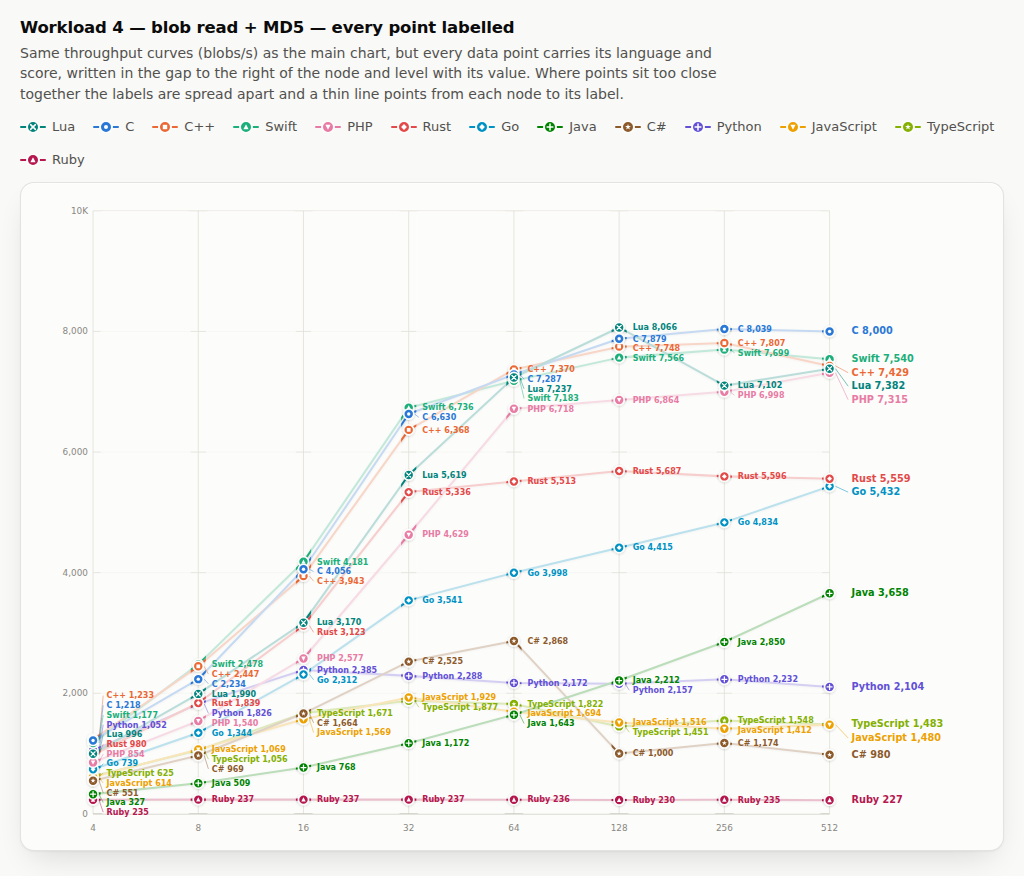
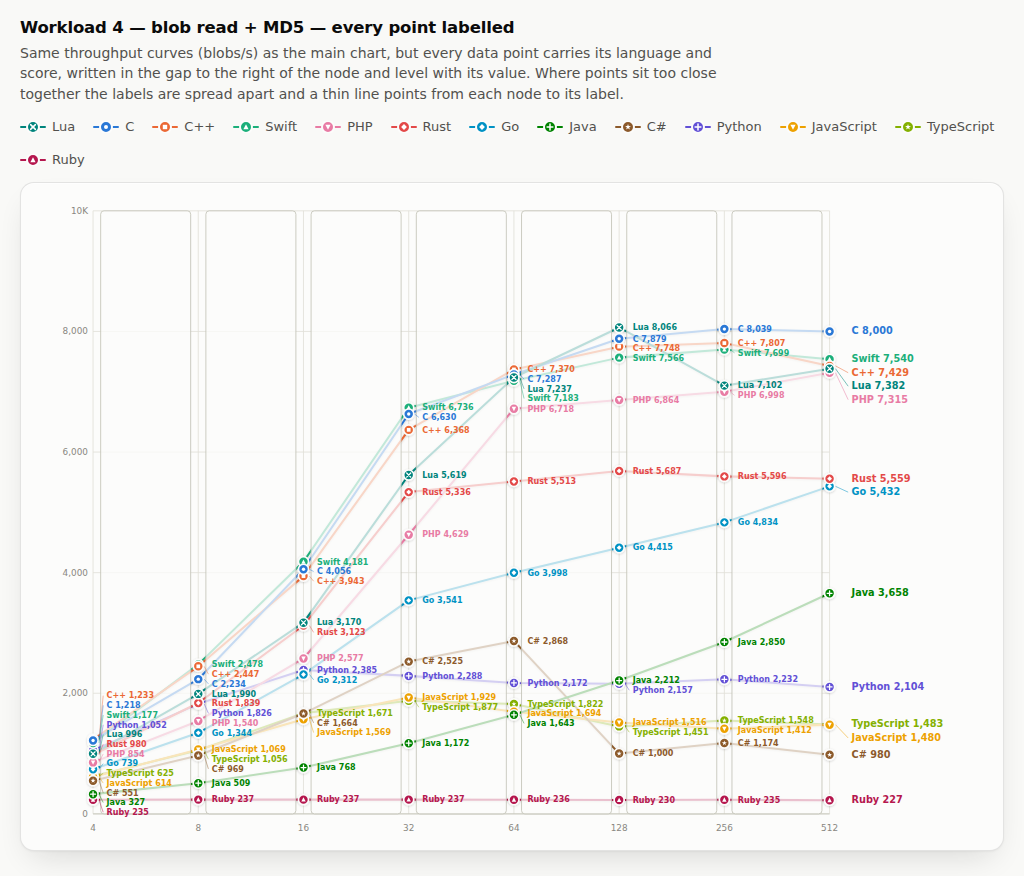
report: outline the translucent panels on annotated charts
Give each full-height gap panel a 1px baseline-coloured border so the label
columns are clearly framed against the clear node windows.

diff --git a/report/annotated.html b/report/annotated.html
@@ -298,7 +298,8 @@ const PAGE_BARS = false;
       const PAD = 9;   // leave a clear window around each node column
       for (let i = 0; i < N-1; i++) {
         svg.appendChild(el("rect", { x: X(i)+PAD, y: BM.t, width: X(i+1)-X(i)-2*PAD, height: BIH, rx: 4, ry: 4,
-                                     fill: "var(--surface-1)", "fill-opacity": "0.74" }));
+                                     fill: "var(--surface-1)", "fill-opacity": "0.74",
+                                     stroke: "var(--baseline)", "stroke-width": 1 }));
       }
     }
     svg.appendChild(marks);

diff --git a/report/report.html b/report/report.html
@@ -378,7 +378,8 @@ const PAGE_BARS = false;
       const PAD = 9;   // leave a clear window around each node column
       for (let i = 0; i < N-1; i++) {
         svg.appendChild(el("rect", { x: X(i)+PAD, y: BM.t, width: X(i+1)-X(i)-2*PAD, height: BIH, rx: 4, ry: 4,
-                                     fill: "var(--surface-1)", "fill-opacity": "0.74" }));
+                                     fill: "var(--surface-1)", "fill-opacity": "0.74",
+                                     stroke: "var(--baseline)", "stroke-width": 1 }));
       }
     }
     svg.appendChild(marks);

diff --git a/report/bars.html b/report/bars.html
@@ -298,7 +298,8 @@ const PAGE_BARS = true;
       const PAD = 9;   // leave a clear window around each node column
       for (let i = 0; i < N-1; i++) {
         svg.appendChild(el("rect", { x: X(i)+PAD, y: BM.t, width: X(i+1)-X(i)-2*PAD, height: BIH, rx: 4, ry: 4,
-                                     fill: "var(--surface-1)", "fill-opacity": "0.74" }));
+                                     fill: "var(--surface-1)", "fill-opacity": "0.74",
+                                     stroke: "var(--baseline)", "stroke-width": 1 }));
       }
     }
     svg.appendChild(marks);

diff --git a/report/generate_html_report.py b/report/generate_html_report.py
@@ -720,7 +720,8 @@ const PAGE_BARS = __PAGE_BARS__;
       const PAD = 9;   // leave a clear window around each node column
       for (let i = 0; i < N-1; i++) {
         svg.appendChild(el("rect", { x: X(i)+PAD, y: BM.t, width: X(i+1)-X(i)-2*PAD, height: BIH, rx: 4, ry: 4,
-                                     fill: "var(--surface-1)", "fill-opacity": "0.74" }));
+                                     fill: "var(--surface-1)", "fill-opacity": "0.74",
+                                     stroke: "var(--baseline)", "stroke-width": 1 }));
       }
     }
     svg.appendChild(marks);
